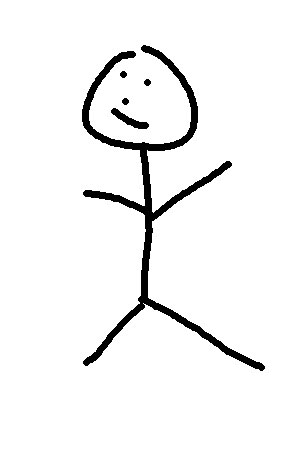
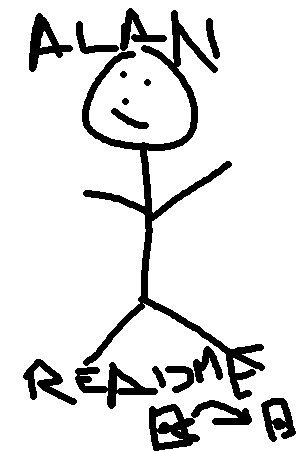
changed images in about us page

Changed region(s): [[0.0594, 0.745, 0.8911, 1.0], [0.0891, 0.0, 0.7426, 0.1552], [0.8614, 0.8692, 0.9802, 0.9933]]

diff --git a/client/src/pages/AboutUs.jsx b/client/src/pages/AboutUs.jsx
@@ -14,29 +14,23 @@ const AboutUs = () => {
         {/* Row 1 */}
         <div className="text-center">
           <img src={daveImage} alt="Dave" className="w-full" />
-          <p className="mt-2">Dave</p>
         </div>
         <div className="text-center">
           <img src={dave2Image} alt="Dave2" className="w-full" />
-          <p className="mt-2">Dave2</p>
         </div>
         <div className="text-center">
           <img src={josiahImage} alt="Josiah" className="w-full" />
-          <p className="mt-2">Josiah</p>
         </div>
         
         {/* Row 2 */}
         <div className="text-center">
           <img src={alanImage} alt="Alan" className="w-full" />
-          <p className="mt-2">Alan</p>
         </div>
         <div className="text-center">
           <img src={chrisImage} alt="Chris" className="w-full" />
-          <p className="mt-2">Chris</p>
         </div>
         <div className="text-center">
           <img src={pamImage} alt="Pam" className="w-full" />
-          <p className="mt-2">Pam</p>
         </div>
       </div>
     </div>
